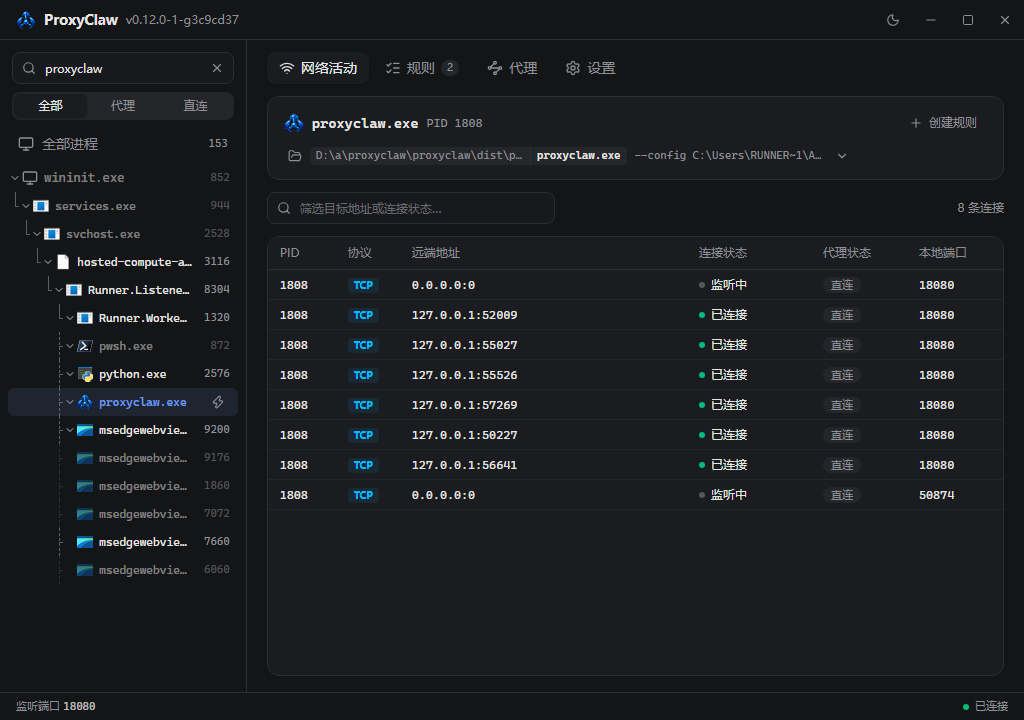
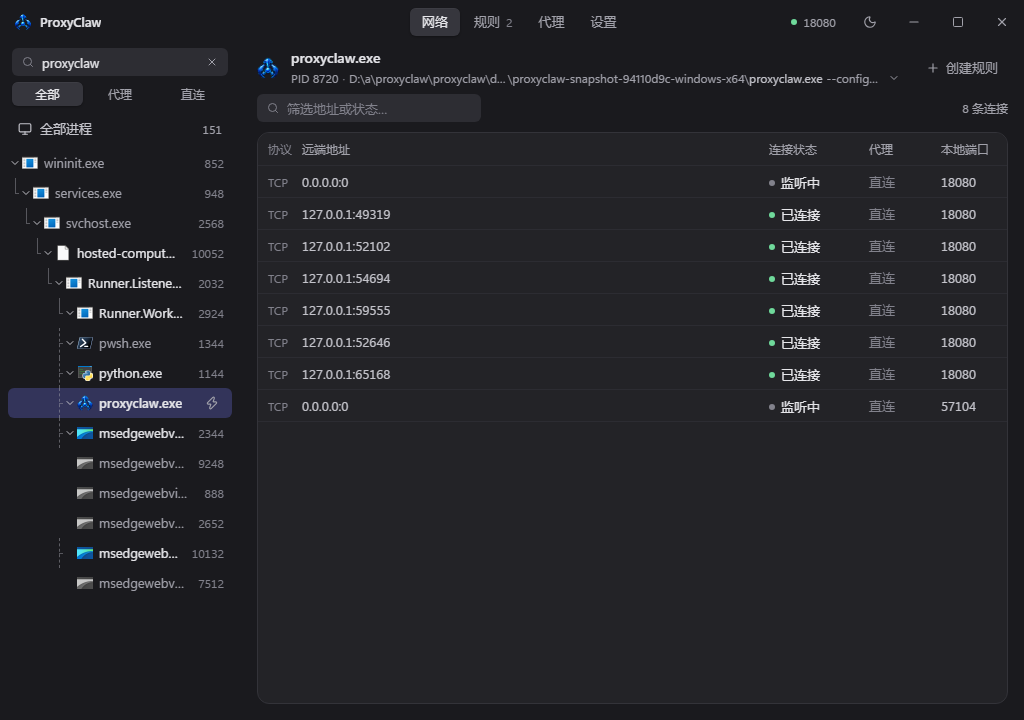
chore: post-merge review — refresh README screenshots, CHANGELOG docs/CI entry, drop unused pushInfo (#12)

diff --git a/frontend/src/lib/toast.ts b/frontend/src/lib/toast.ts
@@ -10,7 +10,3 @@ export function pushError(e: unknown, prefix?: string) {
 export function pushSuccess(text: string) {
   toast.success(text)
 }
-
-export function pushInfo(text: string) {
-  toast(text)
-}

diff --git a/CHANGELOG.md b/CHANGELOG.md
@@ -30,6 +30,20 @@
   empty states, no text selection on app chrome, monospace only for the
   JSON editor, logs and command lines, 4px spacing grid.
 
+### Docs and CI
+
+- README.md / README.en.md rewritten around the current React UI with new
+  screenshots taken by the CI WebView2 screenshot test; new
+  `docs/ROADMAP.md` (v0.13, v0.14, later). One-off review / fix notes,
+  `docs/history`, `tools/research`, the bundled WinDivert HTML doc,
+  `sonar-project.properties` and the Vue-era screenshots are removed.
+- Local-only test scripts that neither CI nor CTest ran are removed;
+  `scripts/verify.py` runs `tests/e2e_rule_policy.py` as its e2e stage.
+- CI now runs the API e2e test (`tests/e2e_api_test.py --exe`, with a
+  recording SOCKS5 server) and a bounded 45 s stress smoke
+  (`tests/stress_backend.py --ci`) against the packaged app, and uploads a
+  `stress-summary` artifact. Build job timeout raised to 40 minutes.
+
 ## v0.12.0 (2026-11-04)
 
 ### Frontend
